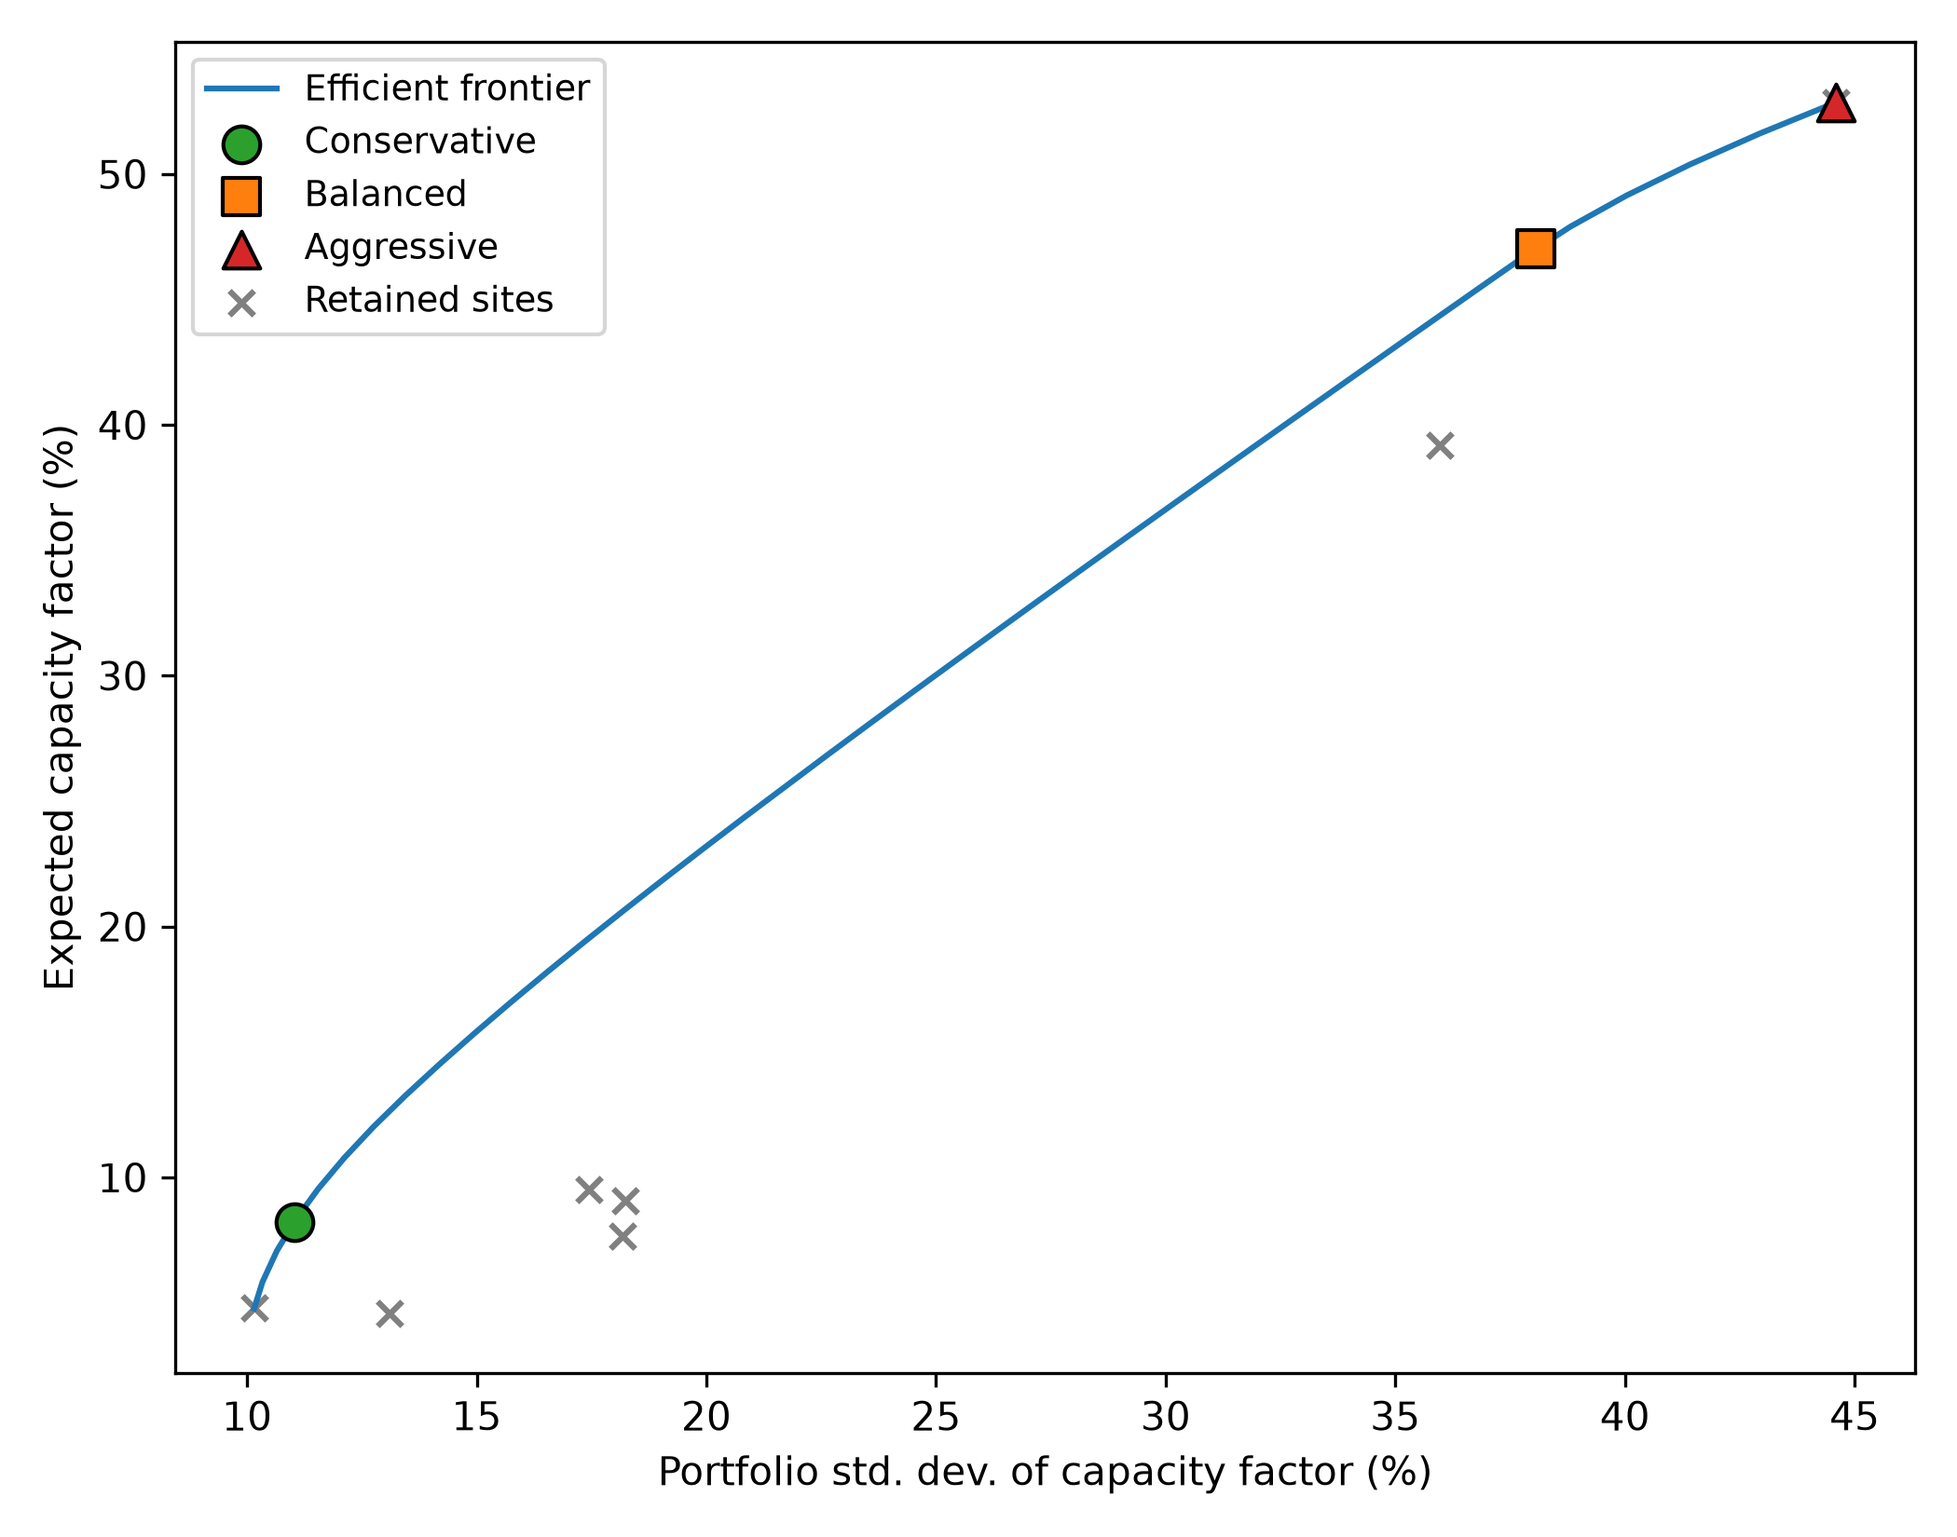
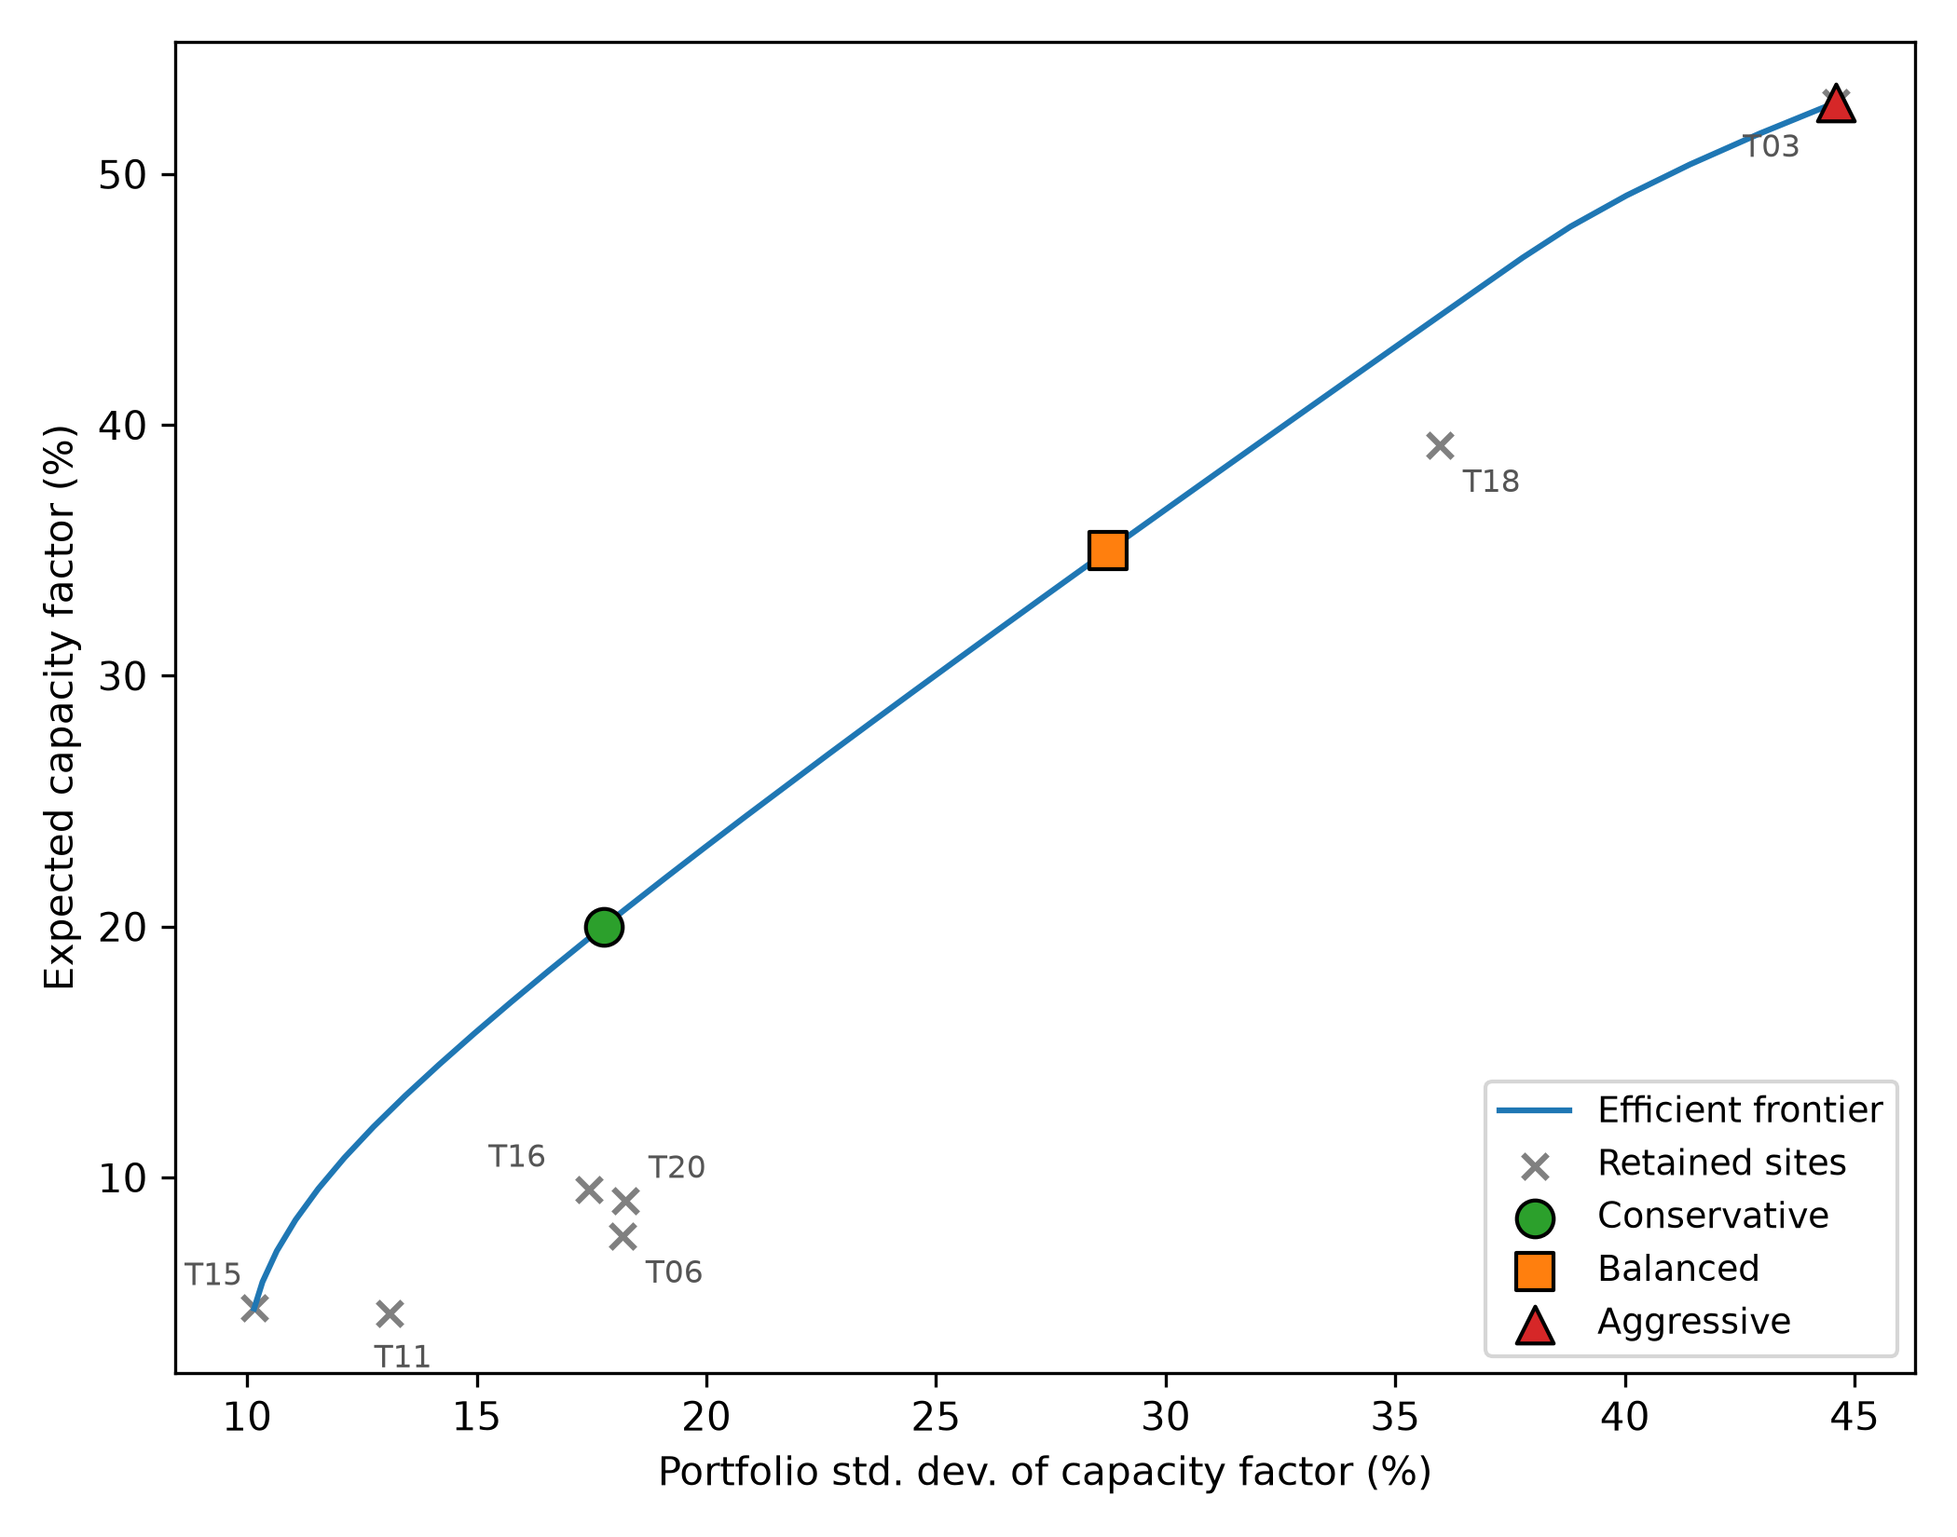
Final pipeline: frontier-floor portfolios, land-budget layout search, converged loop, all figures

diff --git a/src/make_figures.py b/src/make_figures.py
@@ -8,61 +8,66 @@ matplotlib.use("Agg")
 import matplotlib.pyplot as plt
 
 sys.path.insert(0, os.path.dirname(__file__))
-from wake_model import turbine_layout
-from level1_portfolio import correlation_prefilter, min_variance_weights, sharpe
+from wake_model import turbine_layout, D
+from level1_portfolio import (correlation_prefilter, min_variance_weights, sharpe,
+                              CONSERVATIVE_RETURN_FLOOR)
+import level2_layout as l2
 
-DATA_DIR = os.path.join(os.path.dirname(__file__), "..", "data", "processed")
-RESULTS_DIR = os.path.join(os.path.dirname(__file__), "..", "results")
-FIG_DIR = os.path.join(os.path.dirname(__file__), "..", "figures")
+ROOT = os.path.join(os.path.dirname(__file__), "..")
+DATA_DIR = os.path.join(ROOT, "data", "processed")
+RESULTS_DIR = os.path.join(ROOT, "results")
+FIG_DIR = os.path.join(ROOT, "figures")
 os.makedirs(FIG_DIR, exist_ok=True)
 
 cf_df = pd.read_parquet(os.path.join(DATA_DIR, "capacity_factors.parquet"))
 dir_df = pd.read_parquet(os.path.join(DATA_DIR, "wind_direction.parquet"))
 site_stats = pd.read_csv(os.path.join(DATA_DIR, "site_stats.csv"), index_col=0)
-with open(os.path.join(RESULTS_DIR, "portfolios_converged.json")) as f:
-    port_data = json.load(f)
-with open(os.path.join(RESULTS_DIR, "economics_result.json")) as f:
-    econ = json.load(f)
-with open(os.path.join(RESULTS_DIR, "level2_layout_result.json")) as f:
-    l2 = json.load(f)
+port_data = json.load(open(os.path.join(RESULTS_DIR, "portfolios_converged.json")))
+econ = json.load(open(os.path.join(RESULTS_DIR, "economics_result.json")))
 frontier = pd.read_csv(os.path.join(RESULTS_DIR, "efficient_frontier.csv"))
+NAMES = ["conservative", "balanced", "aggressive"]
 
 
 def fig_efficient_frontier():
     fig, ax = plt.subplots(figsize=(7, 5.5))
-    ax.plot(frontier["std"] * 100, frontier["ret"] * 100, "-", color="#1f77b4", lw=1.5, label="Efficient frontier")
-    for name, marker, color in [("conservative", "o", "#2ca02c"), ("balanced", "s", "#ff7f0e"), ("aggressive", "^", "#d62728")]:
-        p = port_data["portfolios"][name]
-        ax.scatter(p["std_pct"], p["E_CF_pct"], marker=marker, s=90, color=color, edgecolor="k", zorder=5, label=name.capitalize())
+    ax.plot(frontier["std"] * 100, frontier["ret"] * 100, "-", color="#1f77b4", lw=1.5,
+            label="Efficient frontier")
     retained = port_data["retained_sites"]
     ax.scatter(site_stats.loc[retained, "std_cf_pct"], site_stats.loc[retained, "mean_cf_pct"],
                marker="x", color="gray", s=40, label="Retained sites")
+    offsets = {"T06": (6, -12), "T11": (-4, -14), "T15": (-18, 6), "T16": (-26, 6),
+               "T20": (6, 6), "T18": (6, -12), "T03": (-24, -14)}
+    for s in retained:
+        ax.annotate(s, (site_stats.loc[s, "std_cf_pct"], site_stats.loc[s, "mean_cf_pct"]),
+                    xytext=offsets.get(s, (5, 5)), textcoords="offset points", fontsize=8, color="#555555")
+    for name, marker, color in [("conservative", "o", "#2ca02c"), ("balanced", "s", "#ff7f0e"),
+                                ("aggressive", "^", "#d62728")]:
+        p = port_data["portfolios"][name]
+        ax.scatter(p["std_pct"], p["E_CF_pct"], marker=marker, s=90, color=color, edgecolor="k",
+                   zorder=5, label=name.capitalize())
     ax.set_xlabel("Portfolio std. dev. of capacity factor (%)")
     ax.set_ylabel("Expected capacity factor (%)")
-    ax.legend(loc="upper left", fontsize=9)
+    ax.legend(loc="lower right", fontsize=9)
     fig.tight_layout()
     fig.savefig(os.path.join(FIG_DIR, "fig2_efficient_frontier.png"), dpi=300)
     plt.close(fig)
 
 
 def fig_wind_roses():
-    retained = port_data["retained_sites"]
-    n = len(retained)
-    ncols = 4
-    nrows = int(np.ceil(n / ncols))
-    fig = plt.figure(figsize=(3.2 * ncols, 3.2 * nrows))
-    for i, site in enumerate(retained):
-        ax = fig.add_subplot(nrows, ncols, i + 1, projection="polar")
+    sites = list(cf_df.columns)
+    fig = plt.figure(figsize=(12, 10))
+    for i, site in enumerate(sites):
+        ax = fig.add_subplot(4, 5, i + 1, projection="polar")
         d = dir_df[site].values
         bins = np.linspace(0, 360, 17)
         hist, _ = np.histogram(d, bins=bins)
-        freq = hist / len(d) * 100
         theta = np.radians(0.5 * (bins[:-1] + bins[1:]))
-        ax.bar(theta, freq, width=np.radians(20), color="#1f77b4", edgecolor="k", linewidth=0.3)
+        ax.bar(theta, hist / len(d) * 100, width=np.radians(20), color="#1f77b4",
+               edgecolor="k", linewidth=0.3)
         ax.set_theta_zero_location("N")
         ax.set_theta_direction(-1)
         ax.set_title(site, fontsize=10)
-        ax.set_yticklabels([])
+        ax.tick_params(labelsize=6)
     fig.tight_layout()
     fig.savefig(os.path.join(FIG_DIR, "figB1_wind_roses.png"), dpi=250)
     plt.close(fig)
@@ -84,15 +89,15 @@ def fig_correlation_heatmap():
 
 def fig_site_map():
     retained = set(port_data["retained_sites"])
+    vmin, vmax = site_stats["mean_cf_pct"].min(), site_stats["mean_cf_pct"].max()
     fig, ax = plt.subplots(figsize=(7, 6))
     for site, row in site_stats.iterrows():
-        is_retained = site in retained
-        ax.scatter(row["lon"], row["lat"], s=180 if is_retained else 90,
-                   c=[row["mean_cf_pct"]], cmap="viridis", vmin=site_stats["mean_cf_pct"].min(),
-                   vmax=site_stats["mean_cf_pct"].max(),
-                   edgecolor="red" if is_retained else "none", linewidth=2 if is_retained else 0)
-        ax.annotate(site, (row["lon"], row["lat"]), fontsize=7, xytext=(3, 3), textcoords="offset points")
-    sm = plt.cm.ScalarMappable(cmap="viridis", norm=plt.Normalize(site_stats["mean_cf_pct"].min(), site_stats["mean_cf_pct"].max()))
+        r = site in retained
+        ax.scatter(row["lon"], row["lat"], s=180 if r else 90, c=[row["mean_cf_pct"]],
+                   cmap="viridis", vmin=vmin, vmax=vmax,
+                   edgecolor="red" if r else "none", linewidth=2 if r else 0)
+        ax.annotate(site, (row["lon"], row["lat"]), fontsize=7, xytext=(4, 4), textcoords="offset points")
+    sm = plt.cm.ScalarMappable(cmap="viridis", norm=plt.Normalize(vmin, vmax))
     fig.colorbar(sm, ax=ax, label="Mean capacity factor (%)")
     ax.set_xlabel("Longitude (deg)")
     ax.set_ylabel("Latitude (deg)")
@@ -101,17 +106,32 @@ def fig_site_map():
     plt.close(fig)
 
 
-def fig_layout_comparison():
-    fig, axes = plt.subplots(1, 2, figsize=(11, 5.5))
-    for ax, key, label in [(axes[0], "aep_maximizing", "AEP-maximizing"), (axes[1], "risk_adjusted", "Risk-adjusted")]:
-        cfg = l2[key]
-        pos = turbine_layout(4, 4, along_D=cfg["along_D"], cross_D=cfg["cross_D"],
-                              stagger_frac=cfg["stagger"], rotation_deg=cfg["rotation"])
-        ax.scatter(pos[:, 0], pos[:, 1], s=120, c="#1f77b4", edgecolor="k", zorder=5)
-        ax.set_title(f"{label}\nAEP={cfg['aep_gwh']:.1f} GWh/yr, corr={cfg['mean_corr']:.3f}", fontsize=10)
+def fig_layout_comparison(area=30.0):
+    """Layouts at the land budget where AEP-maximizing and risk-adjusted layouts differ."""
+    bins, _ = l2.build_wind_bins(l2.SITE)
+    _, a, r, _ = l2.search_site(l2.SITE, bins, max_area=area)
+    panels = [("(a) AEP-maximizing", a), ("(b) Risk-adjusted", r)]
+    lays = [turbine_layout(l2.N_ROWS, l2.N_COLS, along_D=row["along_D"], cross_D=row["cross_D"],
+                           stagger_frac=row["stagger"], rotation_deg=row["rotation"]) for _, row in panels]
+    xmin = min(p[:, 0].min() for p in lays) - 1.5 * D
+    xmax = max(p[:, 0].max() for p in lays) + 6.5 * D
+    ymin = min(p[:, 1].min() for p in lays) - 1.5 * D
+    ymax = max(p[:, 1].max() for p in lays) + 1.5 * D
+    fig, axes = plt.subplots(1, 2, figsize=(11, 5.2), sharex=True, sharey=True)
+    for ax, (label, row), pos in zip(axes, panels, lays):
+        ax.scatter(pos[:, 0], pos[:, 1], s=130, c="#1f77b4", edgecolor="k", zorder=5)
+        ax_x = xmax - 2.0 * D
+        ax.annotate("", xy=(ax_x, 3.0 * D), xytext=(ax_x, -3.0 * D),
+                    arrowprops=dict(arrowstyle="<|-|>", color="#B22222", lw=2))
+        ax.text(ax_x, -3.6 * D, "dominant N-S wind", color="#B22222", fontsize=8, ha="center", va="top")
+        ax.set_title(f"{label}: {row['along_D']:.0f}D x {row['cross_D']:.0f}D, stagger {row['stagger']:.2f}"
+                     f"\nAEP = {row['aep_gwh']:.2f} GWh/yr, WR = {row['wake_risk']:.4f} MW$^2$, "
+                     f"corr = {row['mean_corr']:.3f}", fontsize=9.5)
+        ax.set_xlim(xmin, xmax)
+        ax.set_ylim(ymin, ymax)
         ax.set_aspect("equal")
-        ax.set_xlabel("x (m)")
-        ax.set_ylabel("y (m)")
+        ax.set_xlabel("East-West (m)")
+        ax.set_ylabel("North-South (m)")
     fig.tight_layout()
     fig.savefig(os.path.join(FIG_DIR, "fig3_layout_comparison.png"), dpi=300)
     plt.close(fig)
@@ -125,8 +145,10 @@ def fig_rhomax_sensitivity():
         n_retained.append(len(retained))
         mu = cf_df[retained].mean().values
         cov = cf_df[retained].cov().values
-        w = min_variance_weights(cov, np.percentile(mu, 40), mu)
+        w = min_variance_weights(cov, CONSERVATIVE_RETURN_FLOOR, mu)
         sh.append(sharpe(w, mu, cov) if w is not None else np.nan)
+    pd.DataFrame({"rho_max": rhos, "n_retained": n_retained, "conservative_sharpe": sh}).to_csv(
+        os.path.join(RESULTS_DIR, "rhomax_sensitivity.csv"), index=False)
     fig, ax1 = plt.subplots(figsize=(7, 5))
     ax1.plot(rhos, n_retained, "o-", color="#1f77b4")
     ax1.set_xlabel(r"Correlation pre-filter threshold $\rho_{\max}$")
@@ -139,14 +161,31 @@ def fig_rhomax_sensitivity():
     plt.close(fig)
 
 
+def fig_pareto():
+    df = pd.read_csv(os.path.join(RESULTS_DIR, "layout_search.csv"))
+    best = df.loc[df["aep_gwh"].idxmax()]
+    fig, ax = plt.subplots(figsize=(7, 5.2))
+    sc = ax.scatter(df["aep_gwh"], df["wake_risk"], c=df["stagger"], cmap="viridis", s=40, edgecolor="none")
+    fig.colorbar(sc, ax=ax, label="Row stagger fraction")
+    ax.scatter([best["aep_gwh"]], [best["wake_risk"]], s=160, facecolor="none", edgecolor="red", lw=2,
+               label="AEP-maximizing = risk-adjusted")
+    ax.set_xlabel("Annual energy production (GWh/yr)")
+    ax.set_ylabel(r"Wake risk WR (MW$^2$)")
+    ax.legend(fontsize=9)
+    fig.tight_layout()
+    fig.savefig(os.path.join(FIG_DIR, "figB4_pareto_wake_risk.png"), dpi=300)
+    plt.close(fig)
+
+
 def fig_economics():
-    names = ["conservative", "balanced", "aggressive"]
-    lcoe = [econ[n]["lcoe_usd_per_mwh"] for n in names]
-    npv = [econ[n]["npv_usd_m"] for n in names]
+    lcoe = [econ[n]["lcoe_usd_per_mwh"] for n in NAMES]
+    npv = [econ[n]["npv_usd_m"] for n in NAMES]
     fig, (ax1, ax2) = plt.subplots(1, 2, figsize=(10, 4.5))
-    ax1.bar(names, lcoe, color="#1f77b4")
+    ax1.bar(NAMES, lcoe, color="#1f77b4")
+    ax1.axhline(45, color="k", ls="--", lw=1)
+    ax1.text(2.4, 47, "USD 45/MWh price", ha="right", fontsize=8)
     ax1.set_ylabel("LCOE (USD/MWh)")
-    ax2.bar(names, npv, color="#ff7f0e")
+    ax2.bar(NAMES, npv, color="#ff7f0e")
     ax2.set_ylabel("NPV (USD M)")
     ax2.axhline(0, color="k", lw=0.8)
     fig.tight_layout()
@@ -161,5 +200,6 @@ if __name__ == "__main__":
     fig_site_map()
     fig_layout_comparison()
     fig_rhomax_sensitivity()
+    fig_pareto()
     fig_economics()
     print("Saved all figures to", FIG_DIR)

diff --git a/src/level1_portfolio.py b/src/level1_portfolio.py
@@ -15,7 +15,8 @@ RESULTS_DIR = os.path.join(os.path.dirname(__file__), "..", "results")
 os.makedirs(RESULTS_DIR, exist_ok=True)
 
 RHO_MAX = 0.85
-CONSERVATIVE_RETURN_PERCENTILE = 40
+CONSERVATIVE_RETURN_FLOOR = 0.20  # conservative portfolio: minimum variance s.t. E[CF] >= 20%
+BALANCED_RETURN_FLOOR = 0.35      # balanced portfolio: minimum variance s.t. E[CF] >= 35%
 
 
 def correlation_prefilter(cf_df, rho_max=RHO_MAX):
@@ -59,16 +60,18 @@ def sharpe(w, mu, cov):
 
 
 def solve_portfolios(mu, cov):
-    """Return weight vectors for the conservative, balanced (max-Sharpe) and aggressive portfolios."""
+    """Representative frontier points: conservative (E[CF] >= 20%), balanced (E[CF] >= 35%),
+    aggressive (100% in the highest-yield site) and, for reference, the maximum-Sharpe portfolio."""
     n = len(mu)
-    w_cons = min_variance_weights(cov, np.percentile(mu, CONSERVATIVE_RETURN_PERCENTILE), mu)
     res = minimize(lambda w: -sharpe(w, mu, cov), np.ones(n) / n, method="SLSQP",
                    bounds=[(0.0, 1.0)] * n,
                    constraints=[{"type": "eq", "fun": lambda w: np.sum(w) - 1.0}],
                    options={"maxiter": 1000, "ftol": 1e-12})
     w_agg = np.zeros(n)
     w_agg[int(np.argmax(mu))] = 1.0
-    return {"conservative": w_cons, "balanced": res.x, "aggressive": w_agg}
+    return {"conservative": min_variance_weights(cov, CONSERVATIVE_RETURN_FLOOR, mu),
+            "balanced": min_variance_weights(cov, BALANCED_RETURN_FLOOR, mu),
+            "aggressive": w_agg, "max_sharpe": res.x}
 
 
 def summarize(w, mu, cov, sites, regimes):

diff --git a/README.md b/README.md
@@ -49,21 +49,31 @@ Raw downloads are not committed (`data/raw*/` is git-ignored); the 100 m series 
 
 ## Main results (this repository, `results/`)
 
-| Portfolio | E[CF] (%) | Std (%) | Sharpe | LCOE (USD/MWh) | NPV (USD M) |
-|---|---|---|---|---|---|
-| Conservative (T03 7%, T15 91.5%, T11/T20 ~1% each) | 8.2 | 11.0 | 0.75 | 308.9 | −414.7 |
-| Balanced / max-Sharpe (T03 57%, T18 43%) | 47.0 | 38.1 | 1.24 | 56.9 | −101.2 |
-| Aggressive / single best site (T03) | 52.9 | 44.6 | 1.19 | 49.5 | −44.0 |
+Portfolios are minimum-variance points on the efficient frontier of the 7 sites retained by the
+correlation pre-filter (rho_max = 0.85): *conservative* = E[CF] >= 20 %, *balanced* = E[CF] >= 35 %,
+*aggressive* = 100 % in the highest-yield site (T03); the maximum-Sharpe portfolio is a reference.
 
-* **Loop (Eqs. 16–17):** converges after one re-solve (max weight change 9.1×10⁻⁴ < ε = 10⁻³).
-  Wake-induced capacity-factor loss has a standard deviation of only 0.4–0.9 percentage points
-  versus 10–45 points for site capacity factors, so Σʷᵃᵏᵉ is a very small correction to Σ⁽⁰⁾.
-* **Level 2:** with a land budget of 36 D² per turbine (≈7 MW/km² for this turbine) the
-  AEP-maximizing layout (6D × 6D, staggered rows) is also the minimum wake-risk layout, i.e. no
-  trade-off appears. A small trade-off appears only at 30 D²
-  (`results/layout_density_sweep.csv`: wake risk −14% for −0.12% AEP, correlation slightly higher).
-* The pre-filter retains 7 of 20 sites; the k-means clusters are wind regimes (high / moderate /
-  low wind), not contiguous geographic zones.
+| Portfolio | Weights | E[CF] (%) | Std (%) | Sharpe | LCOE (USD/MWh) | NPV (USD M) |
+|---|---|---|---|---|---|---|
+| Conservative | T03 25 %, T15 66 %, T18 9 % | 20.0 | 17.8 | 1.13 | 130.9 | -318.6 |
+| Balanced | T03 42 %, T15 29 %, T18 29 % | 35.0 | 28.8 | 1.22 | 76.0 | -198.2 |
+| Aggressive (single site) | T03 100 % | 52.9 | 44.6 | 1.19 | 49.5 | -44.0 |
+| Max-Sharpe (reference) | T03 57 %, T18 43 % | 47.0 | 38.1 | 1.24 | 56.9 | -101.2 |
+
+* **Diversification:** the conservative portfolio cuts the standard deviation of capacity factor by
+  60.2 % relative to the single best site, at a much lower expected capacity factor.
+* **Loop (Eqs. 16-17):** converges after one re-solve (max weight change 1.4e-4 < epsilon = 1e-3; selected
+  sites T03, T15, T18 unchanged). The wake-induced capacity-factor loss has a standard deviation of only
+  0.4-0.9 percentage points versus 10-45 points for site capacity factors, so Sigma^wake is a very small
+  correction to Sigma^(0).
+* **Level 2:** with a land budget of 36 D^2 per turbine (about 7 MW/km^2 for this turbine) the AEP-maximizing
+  layout (6D x 6D, staggered rows) is also the minimum wake-risk layout, i.e. no trade-off appears; the same
+  holds at 25 and 50 D^2. Only at 30 D^2 do the layouts differ (wake risk -14.1 % for -0.12 % AEP;
+  `results/layout_density_sweep.csv`).
+* The k-means clusters are wind regimes (high / moderate / low wind), not contiguous geographic zones.
+* The 20 % and 35 % return floors are conventions chosen to define representative frontier points; an earlier
+  development version used a percentile rule that produced a degenerate conservative portfolio and was
+  replaced.
 
 ## Limitations
 
